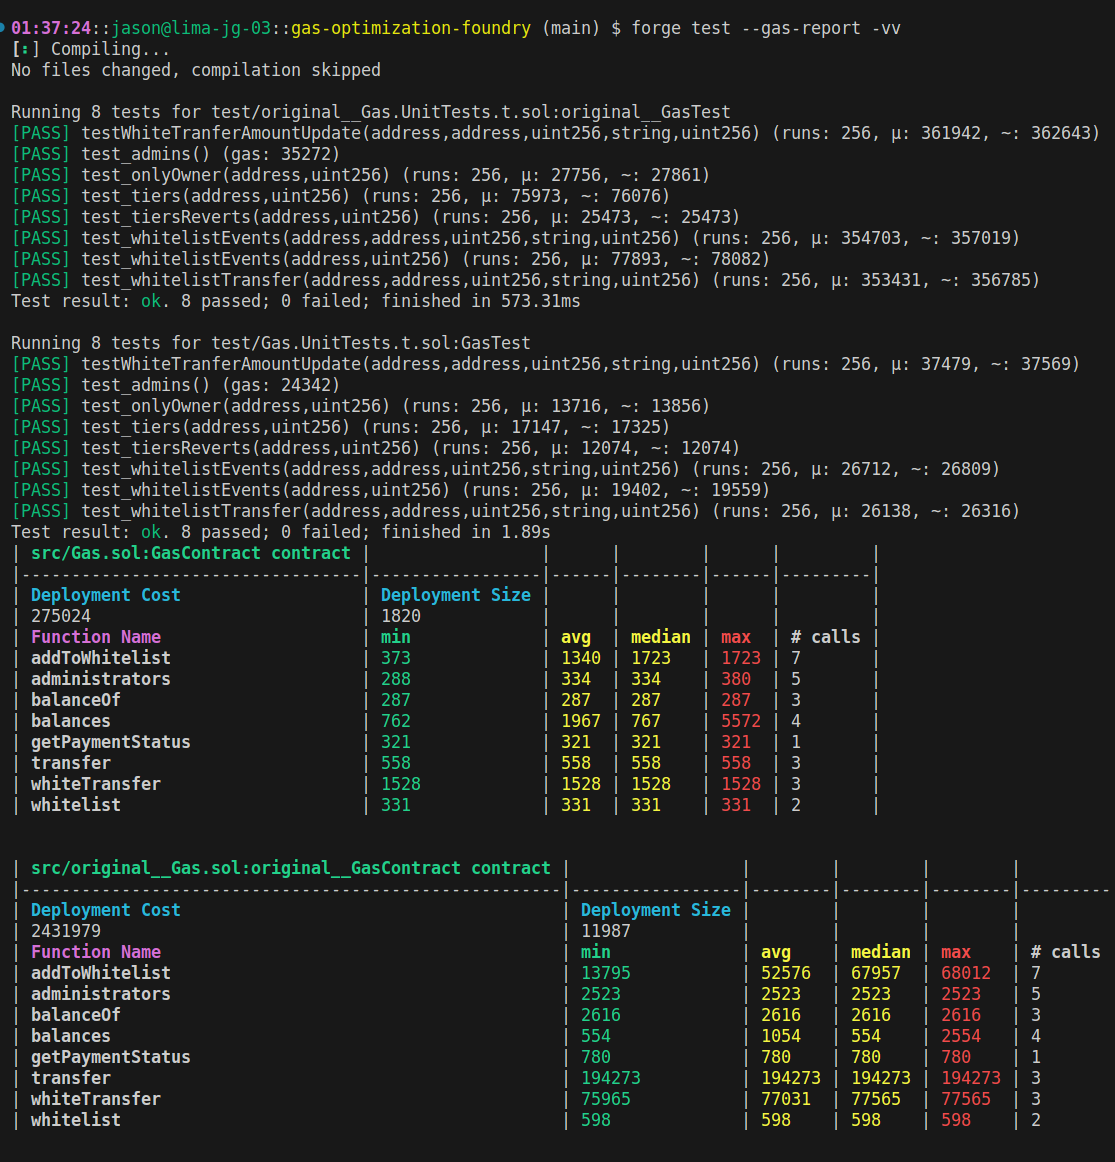
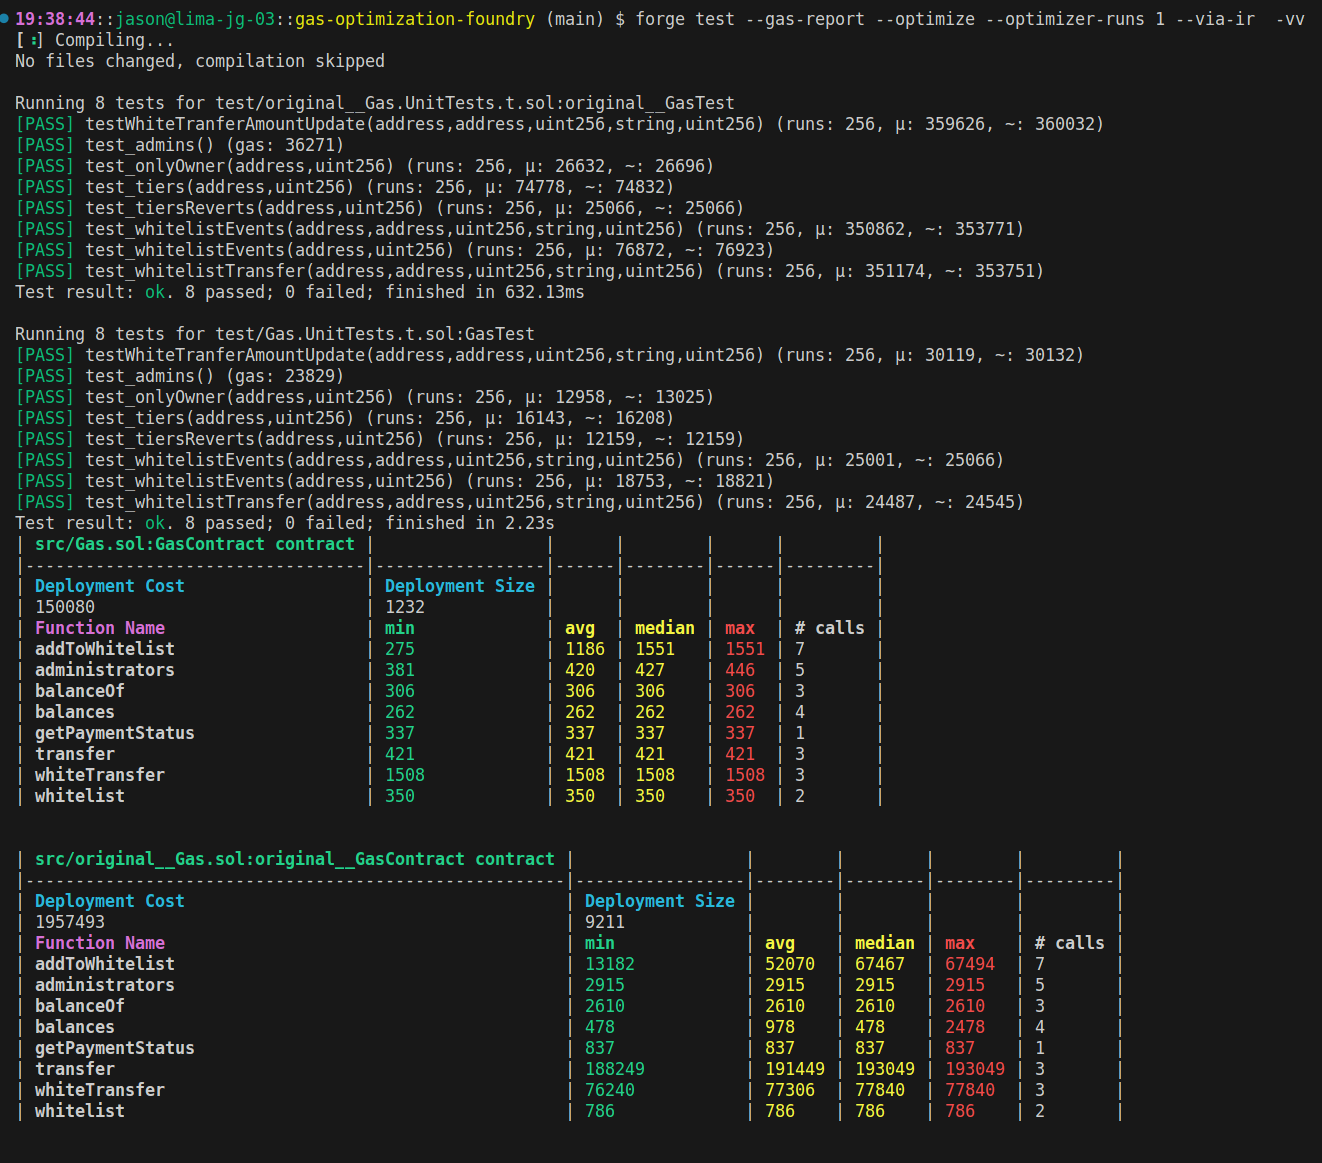
Added futher optimizations.

diff --git a/README.md b/README.md
@@ -26,7 +26,7 @@ EG: `forge test --match-test test_onlyOwner -vvvv`
 Files prefixed with `original` are to represent the initial codebase provided as the challenge.
 
 ## Gas Report Comparison
-`forge test --rpc-url http://127.0.0.1:8545 --gas-report -vv`<br>
+`forge test --rpc-url http://127.0.0.1:8545 --gas-report --optimize --optimizer-runs 1 --via-ir  -vv`<br>
 
 ![Gas Reports](./img/both-gas-reports.png)
 
